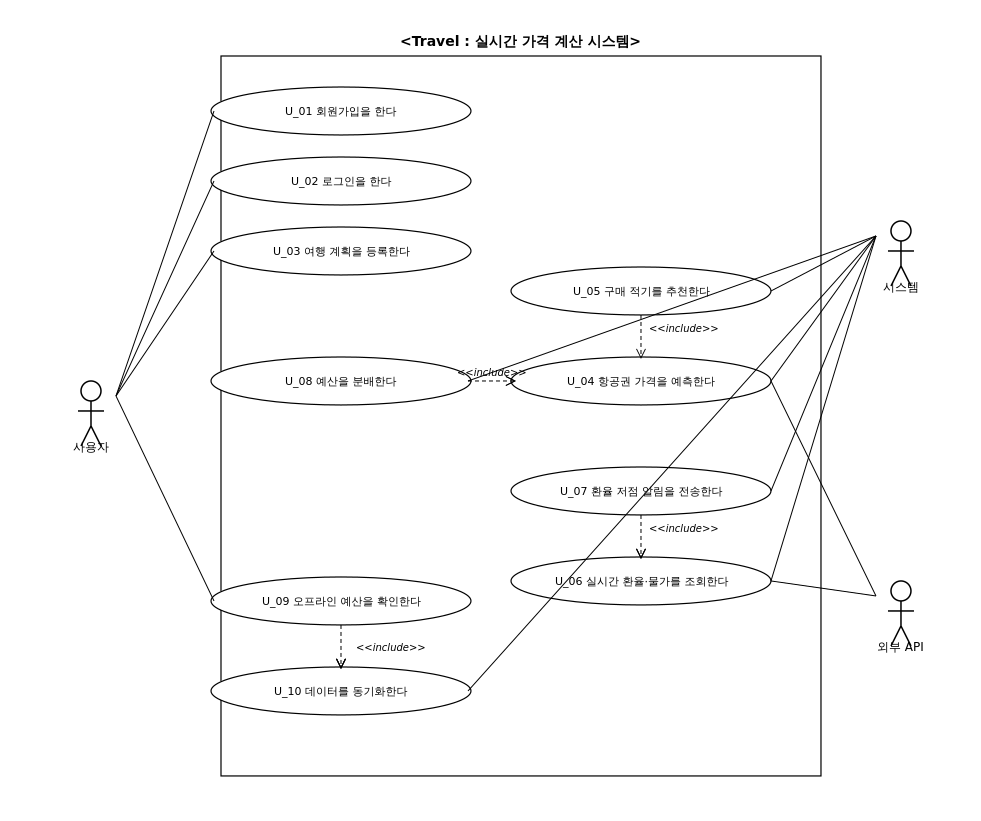
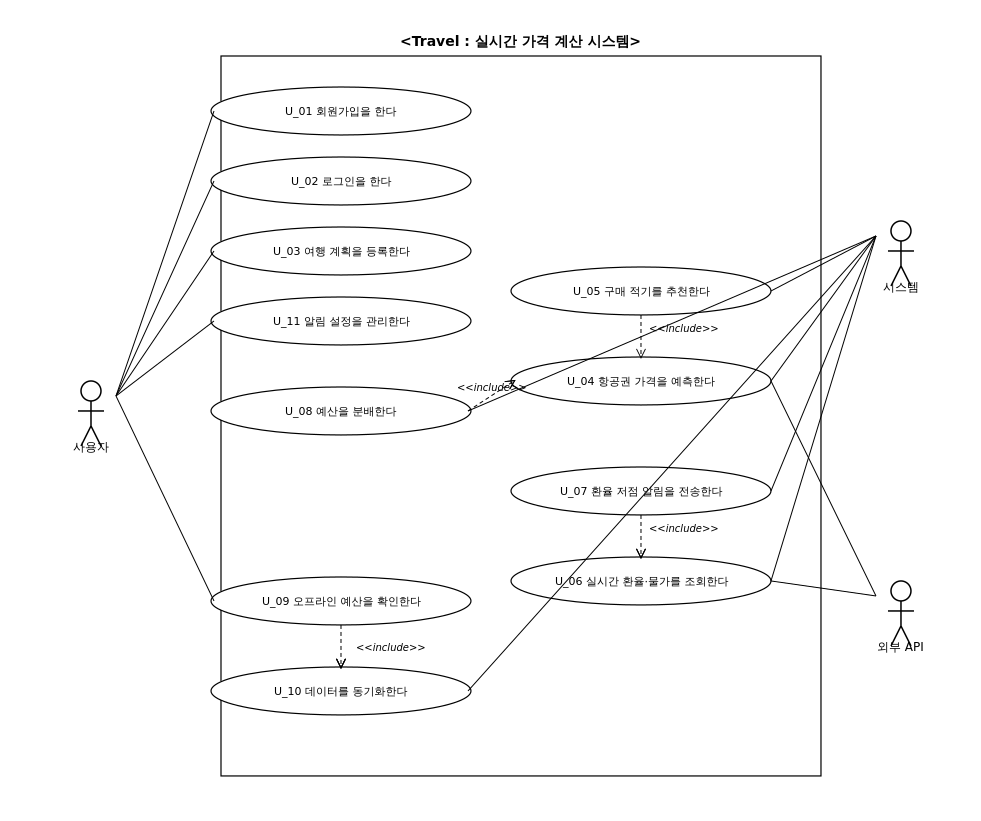
피드백 반영

diff --git a/doc/[Travel]요구사항분석서_20260514_Doc-003.md b/doc/[Travel]요구사항분석서_20260514_Doc-003.md
@@ -4,7 +4,12 @@
 
 **문서번호:** [Travel]요구사항분석서_20260514_Doc-003
 
+**소 속:**
+
+**팀 명:**
+
 **팀 원:** 2022125042 이승준
+
 
 ---
 
@@ -12,6 +17,8 @@
 | 버전 | 날짜 | 작성자 성명 | 제/개정사항 | 비고 |
 | :--- | :--- | :--- | :--- | :--- |
 | 1.0 | 2026.05.14 | 이승준 | 요구사항 분석서 초안 작성 | |
+| 1.1 | 2026.05.18 | 이승준 | 피드백 반영: 사용자 인터페이스 항목 추가, 로그인·회원가입을 클래스 대신 사용자/사용자DB 책임으로 통합 | |
+| 1.2 | 2026.05.18 | 이승준 | 피드백 반영: U_02 로그인 실패 흐름에서 아이디 찾기 서브플로우 분리, U_11 알림 설정 유스케이스 신규 추가, U_07이 알림 설정을 선행 확인하도록 수정 | |
 
 ---
 
@@ -129,11 +136,26 @@ Subflows :
         1. 시스템은 메인 화면으로 이동한다.
     S-2: 로그인 실패
         1. 시스템은 로그인 실패 이유를 화면에 출력한다.
-        2. 사용자는 아이디/비밀번호 찾기 버튼을 누른다.
-        3. 사용자는 자신의 이메일 주소를 입력한다.
-        4. 시스템은 해당 이메일로 임시 비밀번호를 전송한다.
+        2-1. 만약 사용자가 아이디 찾기를 선택한다면
+                S-2a : 아이디 찾기
+        2-2. 만약 사용자가 비밀번호 찾기를 선택한다면
+                S-2b : 비밀번호 찾기
+    S-2a: 아이디 찾기
+        1. 사용자는 아이디 찾기 버튼을 누른다.
+        2. 사용자는 가입 시 등록한 이메일 주소를 입력한다.
+        3. 사용자는 전송 버튼을 누른다.
+        4. 시스템은 입력된 이메일에 해당하는 회원이 존재하는지 확인한다.
+        5. 시스템은 해당 이메일로 가입된 아이디를 전송한다.
+    S-2b: 비밀번호 찾기
+        1. 사용자는 비밀번호 찾기 버튼을 누른다.
+        2. 사용자는 가입 시 등록한 이메일 주소를 입력한다.
+        3. 사용자는 전송 버튼을 누른다.
+        4. 시스템은 입력된 이메일에 해당하는 회원이 존재하는지 확인한다.
+        5. 시스템은 해당 이메일로 임시 비밀번호를 전송한다.
 
 Alternate / Exceptional Flows :
+    S-2a.4.a1 : 입력된 이메일이 회원 정보에 존재하지 않을 경우 시스템은 조회 실패 안내 메시지를 출력한다.
+    S-2b.4.a1 : 입력된 이메일이 회원 정보에 존재하지 않을 경우 시스템은 조회 실패 안내 메시지를 출력한다.
 
 ---
 
@@ -238,18 +260,18 @@ Alternate / Exceptional Flows :
 
 Primary Actor : 시스템
 Use Case Type: Detail, essential
-Brief Description : 이 Use-Case는 시스템이 목표 국가의 환율을 모니터링하다가 최근 3개월 내 저점 구간에 도달했을 때 사용자에게 알림을 전송하는 Use Case를 표현한다.
+Brief Description : 이 Use-Case는 시스템이 사용자의 알림 설정을 확인한 뒤, 목표 국가의 환율을 모니터링하다가 저점 구간에 도달했을 때 사용자에게 알림을 전송하는 Use Case를 표현한다.
 Stakeholders and Interests
-    시스템 : 본 시스템은 사용자가 유리한 시점에 환전할 수 있도록 알림을 전송한다.
+    시스템 : 본 시스템은 사용자가 동의한 경우에 한하여, 유리한 시점에 환전할 수 있도록 알림을 전송한다.
 Trigger : 환율 모니터링 결과 저점 조건이 충족된다.
 Relationships
     Association : 시스템
-    Include : 실시간 환율·물가를 조회한다.
+    Include : 실시간 환율·물가를 조회한다., 알림 설정을 관리한다.
     Extend :
     Generalization :
 Normal Flow of Events :
-1. 시스템은 목표 국가의 환율을 주기적으로 모니터링한다.
-2. 시스템은 최근 3개월 환율 데이터와 현재 환율을 비교한다.
+1. 시스템은 사용자의 알림 수신 여부 및 저점 판단 기간을 조회한다.
+2. 만약 알림 수신이 활성화되어 있다면, 시스템은 사용자가 지정한 저점 판단 기간 동안의 환율 데이터와 현재 환율을 비교한다.
 3. 만약 현재 환율이 저점 구간에 해당한다면
         S-1 : 알림 전송
 
@@ -258,6 +280,7 @@ Subflows :
         1. 시스템은 사용자에게 환전 권장 알림을 전송한다.
 
 Alternate / Exceptional Flows :
+    1.a1 : 사용자의 알림 수신이 비활성화되어 있을 경우 시스템은 알림 전송을 수행하지 않는다.
 
 ---
 
@@ -335,6 +358,33 @@ Alternate / Exceptional Flows :
 
 ---
 
+**Use Case Name : 알림 설정을 관리한다.    ID : U_11    Importance Level: mid**
+
+Primary Actor : 사용자
+Use Case Type: Detail, essential
+Brief Description : 이 Use-Case는 사용자가 환율 저점 알림의 수신 여부 및 알림 조건(저점 판단 기간 등)을 직접 설정하는 Use Case를 표현한다.
+Stakeholders and Interests
+    사용자 : 사용자는 본인의 의사에 따라 알림 수신 여부 및 조건을 직접 제어하기를 원한다.
+Trigger : 사용자는 알림 설정 화면에 진입한다.
+Relationships
+    Association : 사용자
+    Include :
+    Extend :
+    Generalization :
+Normal Flow of Events :
+1. 사용자는 알림 설정 화면에 진입한다.
+2. 사용자는 환율 저점 알림 수신 여부(켜기/끄기)를 선택한다.
+3. 만약 사용자가 알림 수신을 켰다면, 사용자는 저점 판단 기간(예: 1·3·6개월)을 선택한다.
+4. 사용자는 저장 버튼을 누른다.
+5. 시스템은 변경된 알림 설정을 사용자DB에 저장한다.
+6. 시스템은 저장 완료 메시지를 화면에 출력한다.
+
+Subflows :
+Alternate / Exceptional Flows :
+    5.a1 : 알림 설정 저장에 실패한 경우 시스템은 실패 사유를 화면에 출력하고 변경 사항을 롤백한다.
+
+---
+
 ## 3. 요구사항 명세
 
 ### 3.1 정적 분석
@@ -348,37 +398,14 @@ Alternate / Exceptional Flows :
 Description:
 본 시스템을 사용하여 여행 계획을 수립하고 예산을 관리하는 사람을 나타낸다.
 
-Associated Use Case: U_01, U_02, U_03, U_09
+Associated Use Case: U_01, U_02, U_03, U_09, U_11
 
 | Responsibilities | Collaborators |
 | :--- | :--- |
 | 회원가입 요청() : void | 사용자DB |
 | 로그인 요청() : void | 사용자DB |
 | 여행계획 등록() : void | 여행계획 |
-
-Attributes
- - 아이디 : String
- - 비밀번호 : String
- - 이메일 : String
-
-Relationships
- - Generalization (a-kind-of): 로그인, 회원가입
- - Aggregation (has-parts):
- - Other Associations: 여행계획
-
----
-
-**Class Name: 사용자DB    ID: 02    Type: Concrete, Domain**
-
-Description:
-회원으로 가입한 사용자의 정보를 저장하는 데이터베이스를 나타낸다.
-
-Associated Use Case: U_01, U_02
-
-| Responsibilities | Collaborators |
-| :--- | :--- |
-| 회원 저장() : void | 사용자 |
-| 회원 조회() : void | 사용자 |
+| 알림 설정 변경() : void | 사용자DB |
 
 Attributes
  - 아이디 : String
@@ -387,58 +414,41 @@ Attributes
 
 Relationships
  - Generalization (a-kind-of):
- - Aggregation (has-parts): 사용자
- - Other Associations:
-
----
-
-**Class Name: 로그인    ID: 03    Type: Concrete, Domain**
-
-Description:
-사용자의 로그인 절차를 나타낸다.
-
-Associated Use Case: U_02
-
-| Responsibilities | Collaborators |
-| :--- | :--- |
-| 로그인 정보 전송() : void | 사용자 |
-| 로그인 정보 확인() : void | 사용자DB |
-
-Attributes
- - 아이디 : String
- - 비밀번호 : String
-
-Relationships
- - Generalization (a-kind-of): 사용자
  - Aggregation (has-parts):
- - Other Associations:
+ - Other Associations: 여행계획, 사용자DB
 
 ---
 
-**Class Name: 회원가입    ID: 04    Type: Concrete, Domain**
+**Class Name: 사용자DB    ID: 02    Type: Concrete, Domain**
 
 Description:
-사용자의 회원가입 절차를 나타낸다.
+회원으로 가입한 사용자의 정보 및 알림 설정을 저장하고, 회원가입 시 중복 여부와 로그인 시 인증 정보를 검증하는 데이터베이스를 나타낸다.
 
-Associated Use Case: U_01
+Associated Use Case: U_01, U_02, U_07, U_11
 
 | Responsibilities | Collaborators |
 | :--- | :--- |
-| 회원 중복 확인() : bool | 사용자DB |
+| 회원 저장() : void | 사용자 |
+| 회원 조회() : void | 사용자 |
+| 회원 중복 확인() : bool | 사용자 |
+| 로그인 정보 확인() : bool | 사용자 |
+| 알림 설정 저장() : void | 사용자 |
 
 Attributes
  - 아이디 : String
  - 비밀번호 : String
  - 이메일 : String
+ - 알림 수신 여부 : bool
+ - 저점 판단 기간 : Integer
 
 Relationships
- - Generalization (a-kind-of): 사용자
- - Aggregation (has-parts):
- - Other Associations:
+ - Generalization (a-kind-of):
+ - Aggregation (has-parts): 사용자
+ - Other Associations: 환율물가모니터
 
 ---
 
-**Class Name: 여행계획    ID: 05    Type: Concrete, Domain**
+**Class Name: 여행계획    ID: 03    Type: Concrete, Domain**
 
 Description:
 사용자가 등록한 출발지, 목적지, 기간, 예산 등 여행 계획 정보를 나타낸다.
@@ -465,7 +475,7 @@ Relationships
 
 ---
 
-**Class Name: 여행계획DB    ID: 06    Type: Concrete, Domain**
+**Class Name: 여행계획DB    ID: 04    Type: Concrete, Domain**
 
 Description:
 사용자가 등록한 여행 계획을 저장하는 데이터베이스를 나타낸다.
@@ -488,7 +498,7 @@ Relationships
 
 ---
 
-**Class Name: 가격예측모델    ID: 07    Type: Concrete, Domain**
+**Class Name: 가격예측모델    ID: 05    Type: Concrete, Domain**
 
 Description:
 과거 항공권 가격 데이터를 학습하여 향후 가격 변동을 예측하고 구매 적기를 산출하는 딥러닝 모델을 나타낸다.
@@ -512,7 +522,7 @@ Relationships
 
 ---
 
-**Class Name: 환율물가모니터    ID: 08    Type: Concrete, Domain**
+**Class Name: 환율물가모니터    ID: 06    Type: Concrete, Domain**
 
 Description:
 실시간 환율과 도시별 물가를 모니터링하고 환율 저점 구간을 판별하는 컴포넌트를 나타낸다.
@@ -537,7 +547,7 @@ Relationships
 
 ---
 
-**Class Name: 외부API    ID: 09    Type: Concrete, Domain**
+**Class Name: 외부API    ID: 07    Type: Concrete, Domain**
 
 Description:
 항공권 가격, 실시간 환율, 도시별 물가 데이터를 제공하는 외부 시스템을 나타낸다.
@@ -559,7 +569,7 @@ Relationships
 
 ---
 
-**Class Name: 로컬저장소    ID: 10    Type: Concrete, Domain**
+**Class Name: 로컬저장소    ID: 08    Type: Concrete, Domain**
 
 Description:
 오프라인 환경에서 예산 및 환율 데이터를 열람할 수 있도록 기기에 데이터를 저장하고 서버와 동기화하는 컴포넌트를 나타낸다.
@@ -625,9 +635,28 @@ Relationships
 
 ![](./diagrams/seq_10_sync.png)
 
+#### 3.3.11 알림 설정을 관리한다.
+
+![](./diagrams/seq_11_alarm_settings.png)
+
 ---
 
 ## 4. 인터페이스 분석
+
+### 4.1 사용자 인터페이스 (User Interface)
+
+| 분류 | 요구사항 |
+| :--- | :--- |
+| UI-001 | 시스템은 회원가입 및 로그인 화면을 제공한다. 화면에는 아이디·비밀번호 입력 폼과 이메일을 통한 비밀번호 찾기 기능이 포함된다. |
+| UI-002 | 시스템은 여행 계획 등록 화면을 제공한다. 화면에는 출발지, 목적지, 출발/도착일, 총 예산을 입력할 수 있는 폼이 포함된다. |
+| UI-003 | 시스템은 예산 현황 대시보드를 제공한다. 대시보드에는 총 예산, 예측 항공권 비용, 잔여 예산, 일일 평균 경비(숙박·식비·교통비)가 시각적으로 표시된다. |
+| UI-004 | 시스템은 항공권 가격 추이 화면을 제공한다. 화면에는 과거 가격 그래프, 예측 가격, 추천 구매일이 함께 표시된다. |
+| UI-005 | 시스템은 환율·물가 정보 화면을 제공한다. 화면에는 목표 국가의 실시간 환율과 도시별 평균 물가가 표시된다. |
+| UI-006 | 시스템은 환율 저점 알림을 인앱 알림 및 푸시 알림 형태로 사용자에게 표시한다. |
+| UI-007 | 시스템은 오프라인 모드에서 현재 네트워크 연결 상태와 마지막 동기화 시각을 화면 상단에 명시적으로 표시한다. |
+| UI-008 | 시스템은 알림 설정 화면을 제공한다. 화면에는 환율 저점 알림 수신 여부(on/off)와 저점 판단 기간 선택지가 포함된다. |
+
+### 4.2 외부 시스템 인터페이스 (External System Interface)
 
 | 분류 | 요구사항 |
 | :--- | :--- |
@@ -650,24 +679,25 @@ Relationships
 
 ## 6. 요구사항 추적표
 
-| 요구사항 \ UseCase | U_01 | U_02 | U_03 | U_04 | U_05 | U_06 | U_07 | U_08 | U_09 | U_10 |
-| :--- | :---: | :---: | :---: | :---: | :---: | :---: | :---: | :---: | :---: | :---: |
-| FR-001 (실시간 환율/물가 수집·계산) |  |  |  |  |  | O |  | O |  |  |
-| FR-002 (과거 데이터 기반 가격 예측) |  |  |  | O |  |  |  |  |  |  |
-| FR-003 (구매 적기 도출 및 제시) |  |  |  |  | O |  |  |  |  |  |
-| FR-004 (환율 추이 모니터링) |  |  |  |  |  | O | O |  |  |  |
-| FR-005 (저점 구간 알림 제공) |  |  |  |  |  |  | O |  |  |  |
-| FR-006 (항공권 비용 차감) |  |  |  |  |  |  |  | O |  |  |
-| FR-007 (일일 평균 경비 자동 분배) |  |  |  |  |  |  |  | O |  |  |
-| FR-008 (오프라인 로컬 저장) |  |  | O |  |  |  |  |  | O | O |
-| FR-009 (회원가입) | O |  |  |  |  |  |  |  |  |  |
-| FR-010 (로그인) |  | O |  |  |  |  |  |  |  |  |
-| FR-011 (여행 계획 등록) |  |  | O |  |  |  |  |  |  |  |
-| NFR-001 (오프라인-서버 동기화) |  |  |  |  |  |  |  |  | O | O |
-| NFR-002 (외부 API 유연 대응 아키텍처) |  |  |  | O |  | O |  |  |  |  |
-| NFR-003 (가격 예측 정확도) |  |  |  | O | O |  |  |  |  |  |
-| NFR-004 (모델 확장성) |  |  |  | O |  |  |  |  |  |  |
-| NFR-005 (개인정보 암호화·보안) | O | O | O |  |  |  |  |  |  |  |
+| 요구사항 \ UseCase | U_01 | U_02 | U_03 | U_04 | U_05 | U_06 | U_07 | U_08 | U_09 | U_10 | U_11 |
+| :--- | :---: | :---: | :---: | :---: | :---: | :---: | :---: | :---: | :---: | :---: | :---: |
+| FR-001 (실시간 환율/물가 수집·계산) |  |  |  |  |  | O |  | O |  |  |  |
+| FR-002 (과거 데이터 기반 가격 예측) |  |  |  | O |  |  |  |  |  |  |  |
+| FR-003 (구매 적기 도출 및 제시) |  |  |  |  | O |  |  |  |  |  |  |
+| FR-004 (환율 추이 모니터링) |  |  |  |  |  | O | O |  |  |  |  |
+| FR-005 (저점 구간 알림 제공) |  |  |  |  |  |  | O |  |  |  |  |
+| FR-006 (항공권 비용 차감) |  |  |  |  |  |  |  | O |  |  |  |
+| FR-007 (일일 평균 경비 자동 분배) |  |  |  |  |  |  |  | O |  |  |  |
+| FR-008 (오프라인 로컬 저장) |  |  | O |  |  |  |  |  | O | O |  |
+| FR-009 (회원가입) | O |  |  |  |  |  |  |  |  |  |  |
+| FR-010 (로그인) |  | O |  |  |  |  |  |  |  |  |  |
+| FR-011 (여행 계획 등록) |  |  | O |  |  |  |  |  |  |  |  |
+| FR-012 (알림 설정 관리) |  |  |  |  |  |  | O |  |  |  | O |
+| NFR-001 (오프라인-서버 동기화) |  |  |  |  |  |  |  |  | O | O |  |
+| NFR-002 (외부 API 유연 대응 아키텍처) |  |  |  | O |  | O |  |  |  |  |  |
+| NFR-003 (가격 예측 정확도) |  |  |  | O | O |  |  |  |  |  |  |
+| NFR-004 (모델 확장성) |  |  |  | O |  |  |  |  |  |  |  |
+| NFR-005 (개인정보 암호화·보안) | O | O | O |  |  |  |  |  |  |  | O |
 
 ---
 